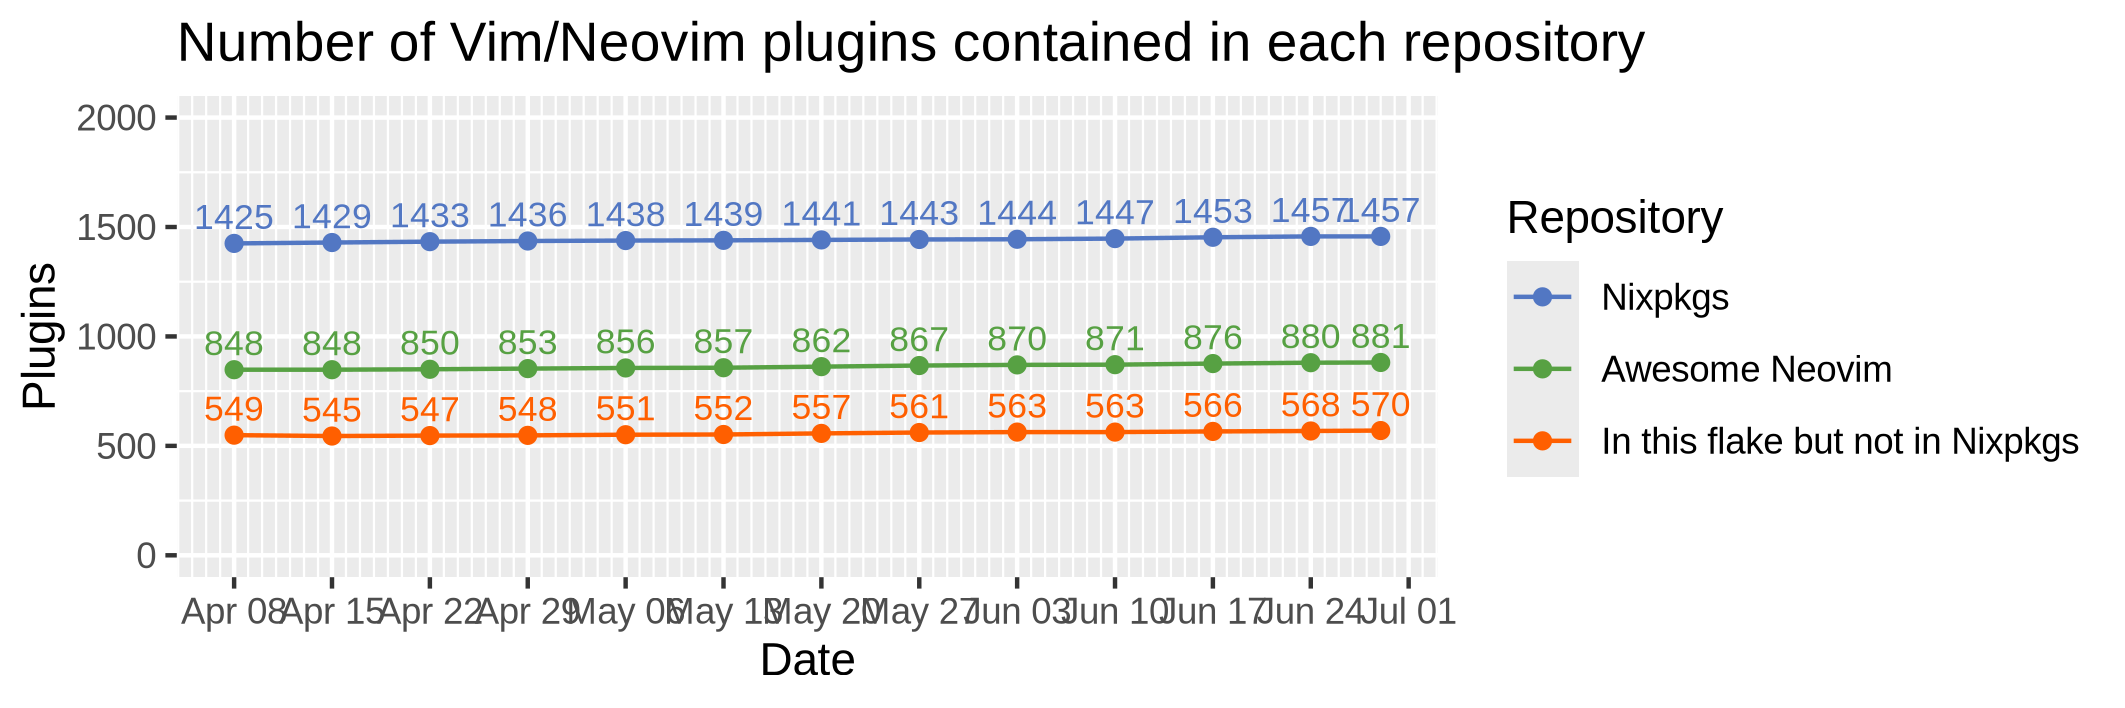
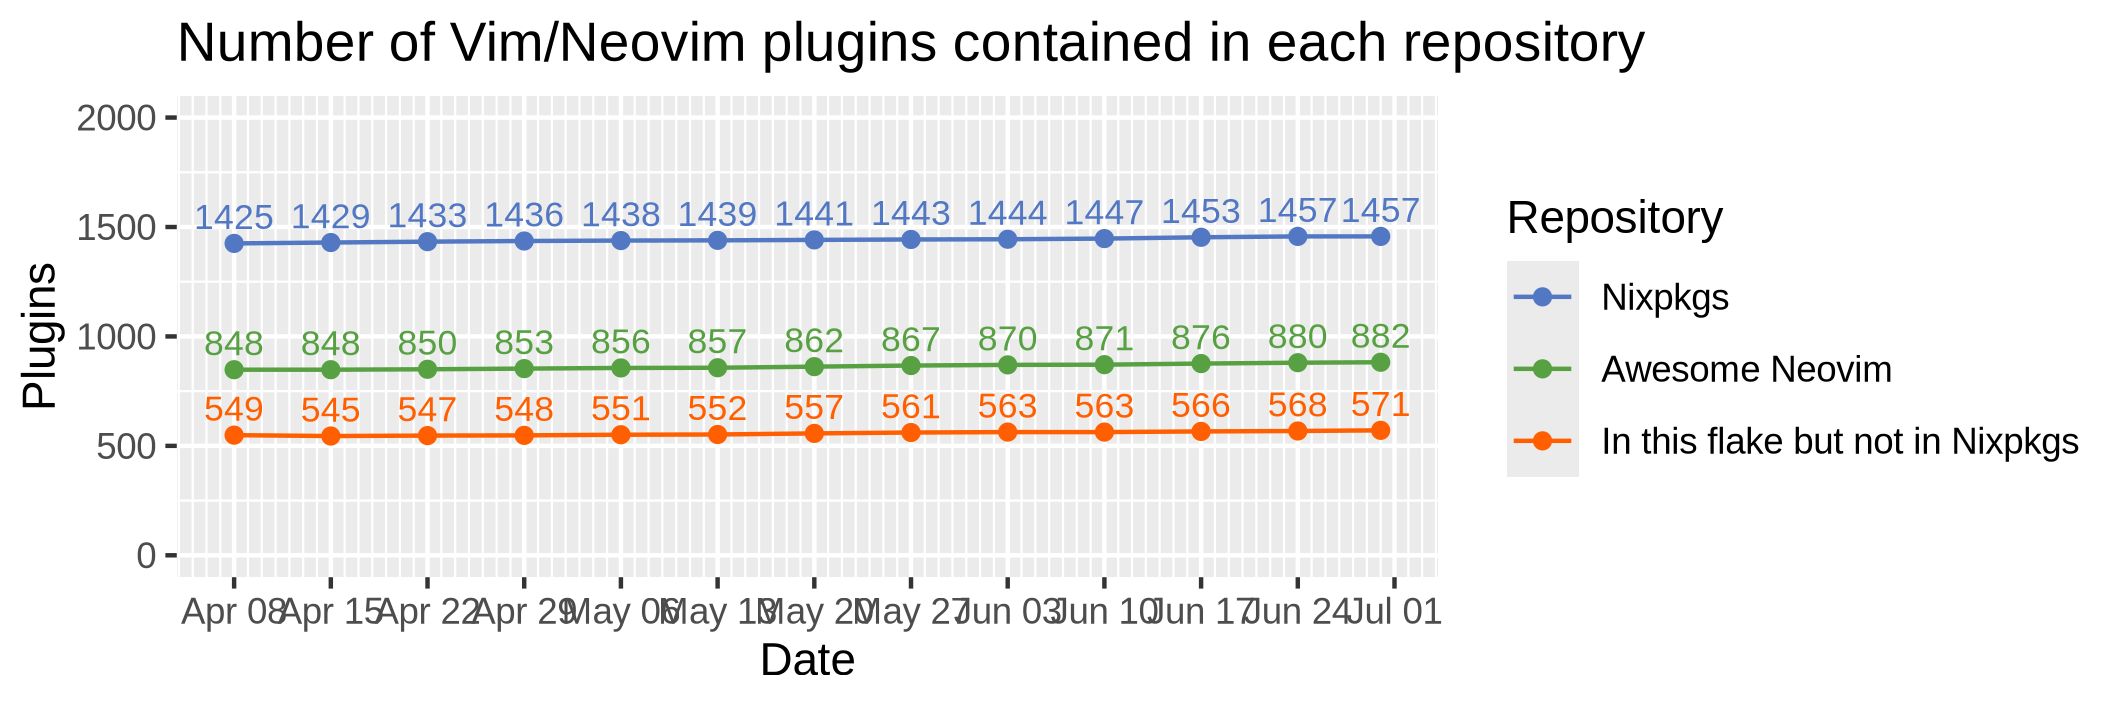
auto: update vim plugins

Changed region(s): [[0.1242, 0.435, 0.6833, 0.6215], [0.1242, 0.839, 0.6833, 0.9011], [0.1242, 0.2797, 0.6522, 0.3418]]

diff --git a/README.md b/README.md
@@ -8,7 +8,7 @@ Nix flake of Awesome Neovim plugins.
 
 [b1]: https://img.shields.io/github/actions/workflow/status/m15a/flake-awesome-neovim-plugins/check.yml?style=flat-square&logo=github&label=CI
 [b2]: https://github.com/m15a/flake-awesome-neovim-plugins/actions/workflows/check.yml
-[b3]: https://img.shields.io/badge/Awesome_Neovim_plugins-881-57A143?style=flat-square
+[b3]: https://img.shields.io/badge/Awesome_Neovim_plugins-882-57A143?style=flat-square
 [b4]: https://img.shields.io/endpoint?url=https://flakehub.com/f/m15a/flake-awesome-neovim-plugins/badge&style=flat-square
 [b5]: https://flakehub.com/flake/m15a/flake-awesome-neovim-plugins
 
